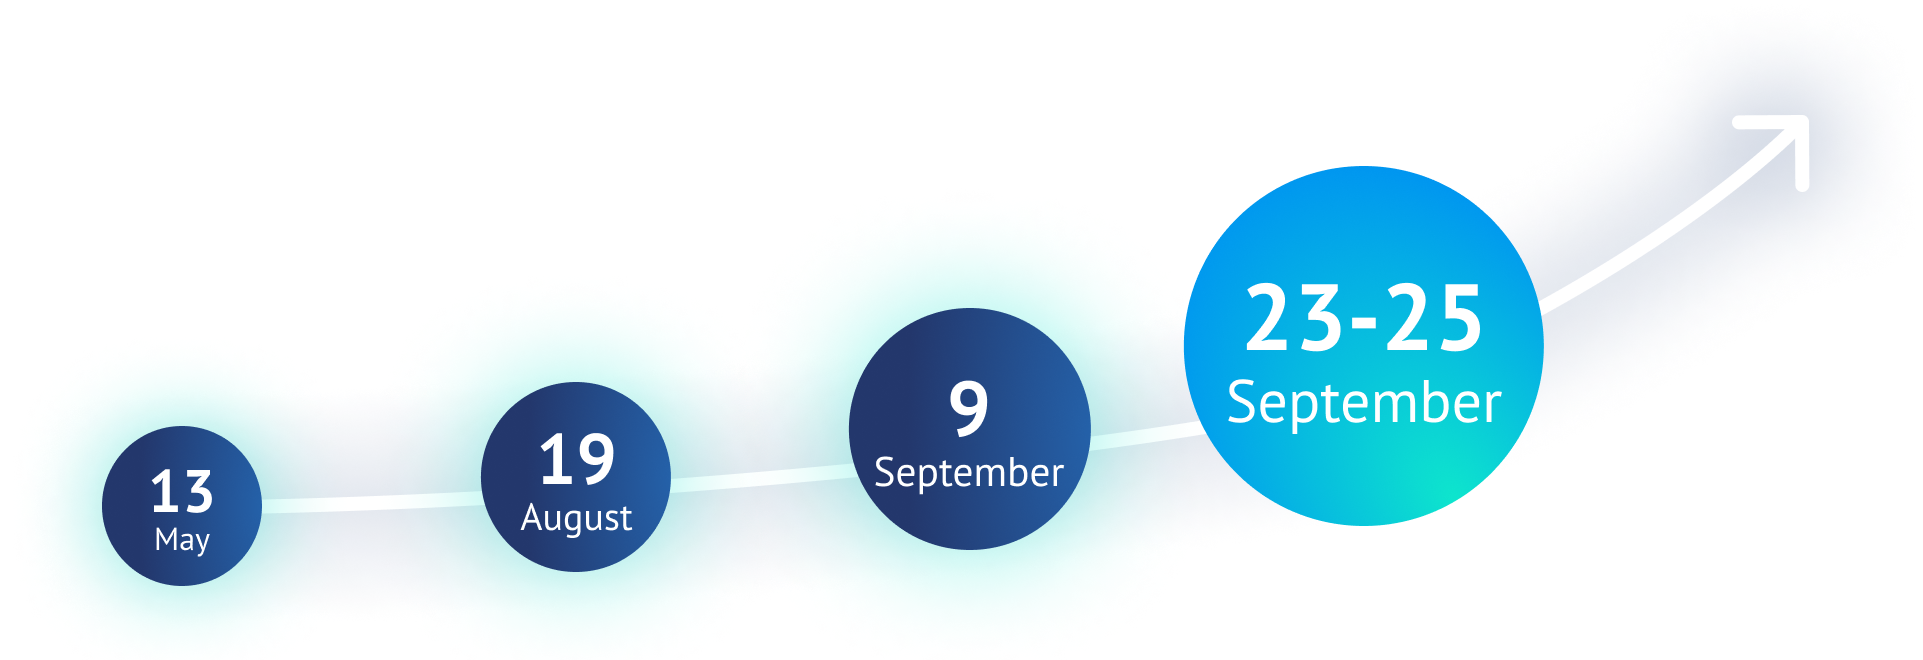
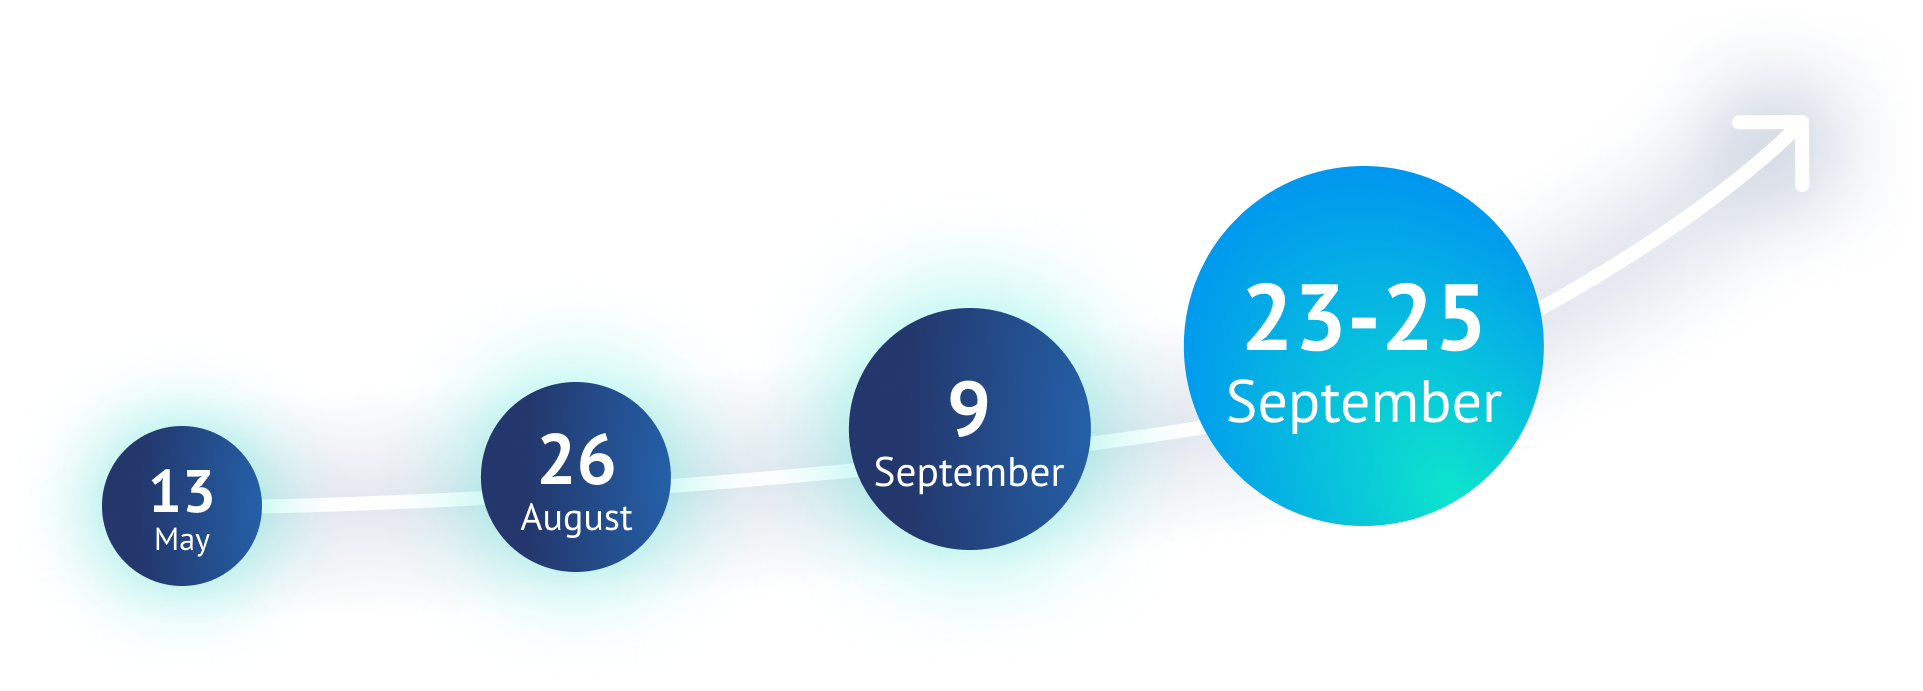
change timebar

diff --git a/index.html b/index.html
@@ -78,13 +78,13 @@
         <div id="group-time-left" class="parallax__group-time-left">
             <div class="title f-1" id="time-left-title"></div>
             <div class="time-left" id="timebar-big">
-                <script src="//megatimer.ru/get/582bbe233f8879979fc873504078c9a0.js"></script>
+                <script src="//megatimer.ru/get/9509ef9086c9f8d49442126332034650.js"></script>
             </div>
             <div class="time-left" id="timebar-medium">
-                <script src="//megatimer.ru/get/002201713077d33ca13e6b11140c366b.js"></script>
+                <script src="//megatimer.ru/get/e299d2cab4b69c4778858d066bcbbe19.js"></script>
             </div>
             <div class="time-left" id="timebar-small">
-                <script src="//megatimer.ru/get/95d52dfba8cca63ce42a81ecd162fc06.js"></script>
+                <script src="//megatimer.ru/get/195936b1ab40ee71998e059ddccaa57b.js"></script>
             </div>
         </div>
         <div class="div-button-tez">
